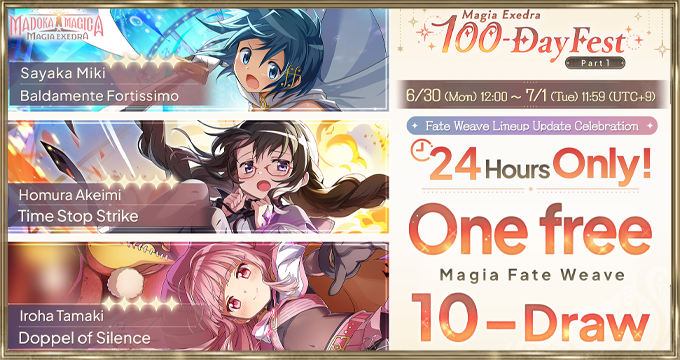
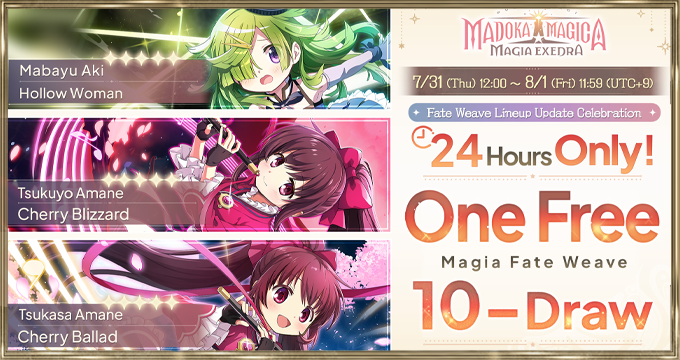
free pull

diff --git a/js/data.js b/js/data.js
@@ -556,6 +556,26 @@ var timerData = [
             }
         ]
     },
+    		{
+        "type": "Gacha",
+        "title": [
+			"【FREE】One Free Magia Fate Weave 10-Draw",
+            "『最大100連！1日1回無料10連ガチャ』"
+        ],
+        "image": [
+            "imgs/exedra/gacha00/free-24.png",
+        ],
+        "column": 1,
+        "priority": 0,
+        "timers": [
+            {
+                name: "24 Hours Only!🪄",
+                "start": "july 31 2025, 12:00",
+                "end": "aug 1 2025, 11:59",
+                extraPriority: 1000
+            },
+        ]
+    },
 		{
         "type": "Gacha",
         "title": [
@@ -572,7 +592,7 @@ var timerData = [
                 name: "100 Pulls Total Between The Dates",
                 "start": "july 16 2025, 12:00",
                 "end": "aug 19 2025, 11:59",
-                extraPriority: 100
+                // extraPriority: 100
             },
         ]
     },
